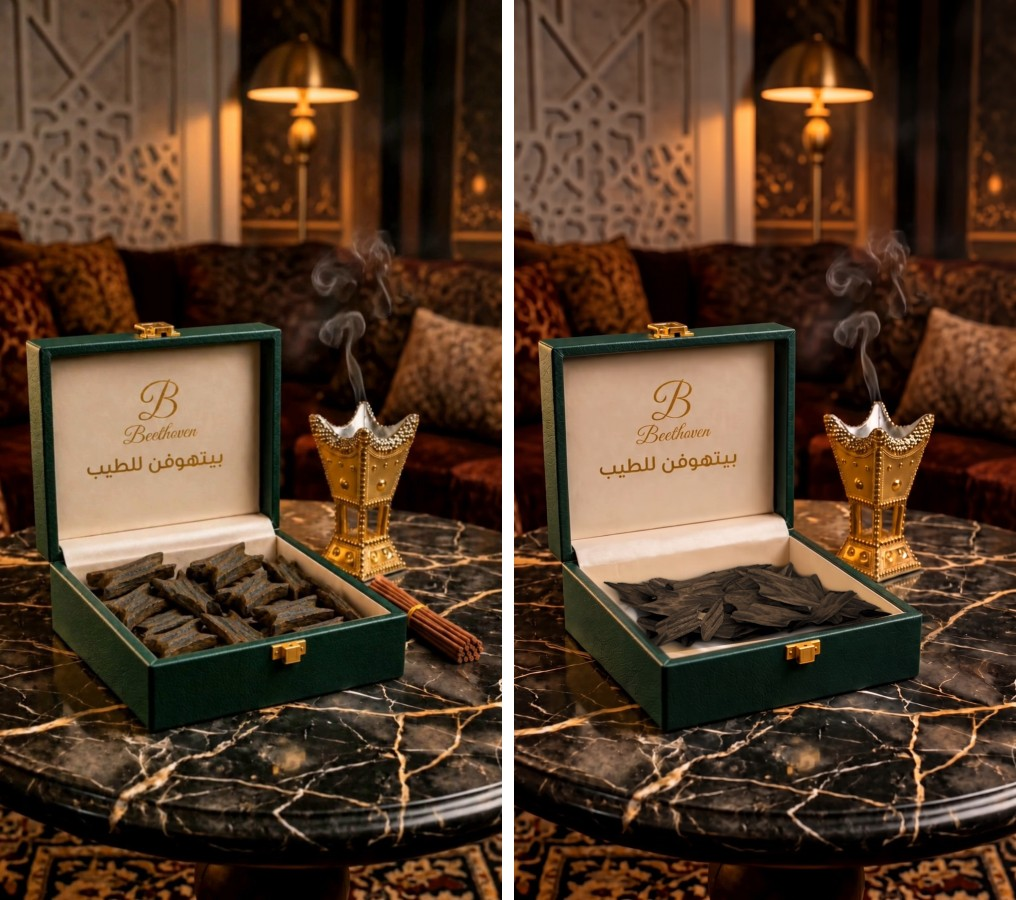
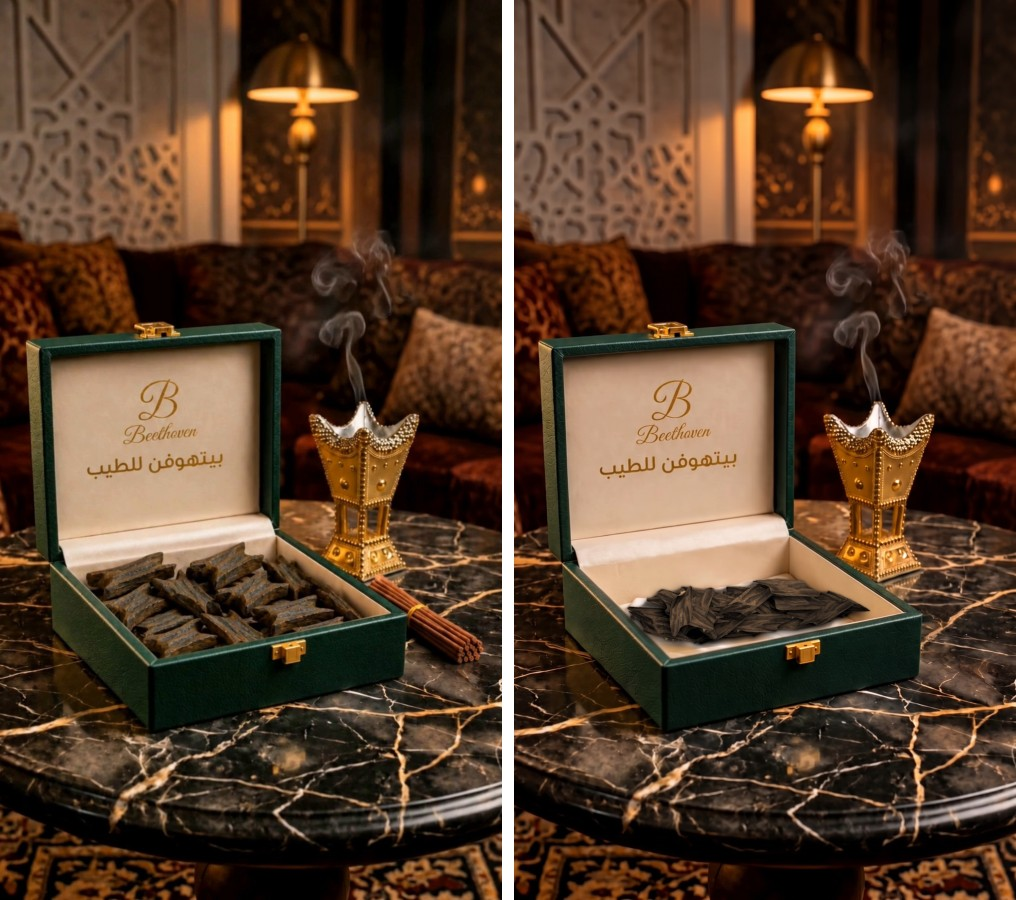
Ad 2: pieces sized by floor area like ad 1 and kept inside the box; skill updated
Claude-Session: https://claude.ai/code/session_01TQdgL8psWQ5B4XyTxv2k9v

Changed region(s): [[0.5797, 0.6222, 0.8848, 0.7467]]

diff --git a/.claude/skills/product-ad-fidelity/scripts/fill_container.py b/.claude/skills/product-ad-fidelity/scripts/fill_container.py
@@ -11,7 +11,9 @@ config.json:
  "poly": optional full opening polygon when a corner is off-frame,
  "backt": 0.6,          # 0 = pieces may reach the back rim, 1 = only on the floor. 0.6-0.7 stopped 'climbing the back wall'
  "leftwide": false,     # keep the left edge at the rim while pulling the back in
- "frac": 0.33,          # piece length as a fraction of the box FRONT edge (client: ~1/3 of box width, like the reel)
+ "frac": 0.33,          # piece length as a fraction of the box FRONT edge (old way; prefer len_area)
+ "len_area": 0.66,      # piece length (after elong) = 0.66 * sqrt(floor area) -> SAME size as the approved Beethoven boxes
+ "fit": "floor",        # keep every piece on the floor polygon (no pieces over the wall tops)
  "elong": 1.12, "squash": 0.85,
  "cov": 0.05,           # stop layer-1 when uncovered area < 5% (lower = fuller)
  "l2": 0.30, "l3": 0.10,# extra layers as fraction of layer-1 count (wood on top of wood)
@@ -34,12 +36,20 @@ open_ = np.zeros((H, W), np.uint8); cv2.fillPoly(open_, [np.array(cfg.get('poly'
 WHITE = paper_white(cfg['ref_photo']); LIGHT = scene_light(plate, flo.tolist())
 WARM = np.array(cfg.get('warm', [0.86, 0.97, 1.08]), np.float32)
 grade = lambda rgb, g=1.0: np.clip(rgb / WHITE * LIGHT * cfg.get('expo', 1.0) * g * WARM, 0, 255)
-LEN = np.linalg.norm(rim[2] - rim[3]) * cfg.get('frac', 0.33); EL = cfg.get('elong', 1.12); SQ = cfg.get('squash', 0.85)
+EL = cfg.get('elong', 1.12); SQ = cfg.get('squash', 0.85)
+if 'len_area' in cfg:   # size relative to the visible floor area: consistent across camera angles (approved: 0.66)
+    LEN = cfg['len_area'] * np.sqrt(cv2.contourArea(flo.astype(np.float32))) / EL
+else:
+    LEN = np.linalg.norm(rim[2] - rim[3]) * cfg.get('frac', 0.33)
 BT = cfg.get('backt', 0.0); reg = rim.copy()
 for i in (0, 1):
     reg[i, 1] = rim[i, 1] * (1 - BT) + flo[i, 1] * BT; reg[i, 0] = rim[i, 0] * (1 - BT * 0.3) + flo[i, 0] * BT * 0.3
 if cfg.get('leftwide'): reg[0, 0] = rim[0, 0]
 area = np.zeros((H, W), np.uint8); cv2.fillPoly(area, [reg.astype(np.int32)], 1); area &= open_
+if cfg.get('fit') == 'floor':   # pieces lie on the floor, may lean part-way up the walls, never over the wall tops
+    k = np.array(cfg.get('wall_lean', [0.15, 0.15, 0.45, 0.45]), np.float32)[:, None]   # BL,BR,FR,FL: fraction toward rim
+    fp = flo + (rim - flo) * k
+    area = np.zeros((H, W), np.uint8); cv2.fillPoly(area, [fp.astype(np.int32)], 1); area &= open_
 fitm = cv2.erode(area, np.ones((9, 9), np.uint8)).astype(bool)          # every piece must lie fully inside
 inner = cv2.erode(area, cv2.getStructuringElement(cv2.MORPH_ELLIPSE, (int(LEN * 0.45) | 1,) * 2)).astype(bool)
 sc = LEN / 195.0; SHD = (int(-8 * sc), int(11 * sc)); SB = 10 * sc
